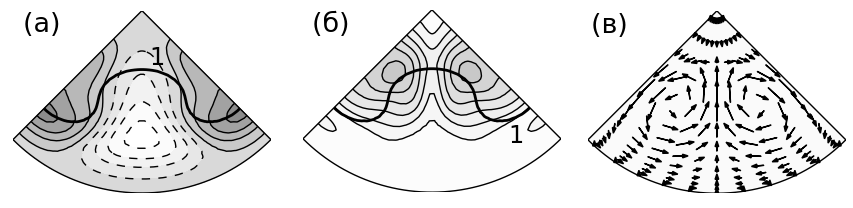
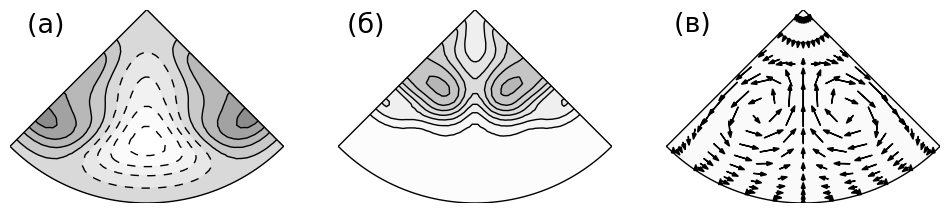
autoref: vortex

diff --git a/autoref/content2.tex b/autoref/content2.tex
@@ -8,7 +8,7 @@
 
 \begin{figure}
 \center{\includegraphics[width=1\linewidth]{bisection.png}}
-\caption{Итерационный процесс построения решения на сепаратрисе.}
+\caption{Итерационный процесс построения решения на сепаратрисе}
 \label{bisection_pic}
 \end{figure}
 
@@ -20,7 +20,7 @@
 
 \begin{figure}
 \center{\includegraphics[width=0.9\linewidth]{edge_3D.png}}
-\caption{Визуализация численного расчета модельного порыва.}
+\caption{Визуализация численного расчета модельного порыва}
 \label{edge_3D_img}
 \end{figure}
 
@@ -28,21 +28,19 @@
 
 На Рисунке \ref{mp_cs_pic}(б) приведено распределение среднеквадратичной амплитуды пульсационной составляющей движения $\v_n$. Пульсации сконцентрированы между соседними полосами повышенной и пониженной скорости, а также между полосой ускорения и осью трубы. Пульсационная составляющая движения $\v_n$ напоминает бегущую вниз по порыву волну. Её фазовая скорость близка к $0.77U$, а длину можно оценить в $5R$. 
 
-\begin{figure}
-\center{\includegraphics[width=1\linewidth]{mp_cs.png}}
-\caption{Поле скорости модельного порыва}
-\label{mp_cs_pic}
-\end{figure}
-
-В \textbf{разделе 2.3} показано, что за образование полос повышенной и пониженной скорости ответственен лифтап (lift-up) эффект, связанный с движением жидкости в перпендикулярной к основному потоку плоскости. 
-Векторное поле поперечной компоненты среднего течения $\V_{3D}$ приведено на Рисунке \ref{mp_cs_pic}(в). В потоке существуют продольные вихри, поддерживающие существование полос. 
-Частицы жидкости, перемещающиеся от стенки в сторону оси трубы, приносят дефект скорости и образуют полосу замедления, а частицы, двигающиеся в противоположном направлении --- от оси к стенке, образуют полосу ускорения.
+В \textbf{разделе 2.3} показано, что за образование полос повышенной и пониженной скорости ответственен лифтап (lift-up) эффект, связанный с движением жидкости в перпендикулярной к основному потоку плоскости. Векторное поле поперечной компоненты среднего течения $\V_{3D}$ приведено на Рисунке \ref{mp_cs_pic}(в). Оно соответствует наличию продольных вихрей, поддерживающих существование полос. Частицы жидкости, перемещающиеся от стенки в сторону оси трубы, приносят дефект скорости и образуют полосу замедления, а частицы, двигающиеся в противоположном направлении --- от оси к стенке, образуют полосу ускорения. Говорить о продольных вихрях позволяет также тот факт, что средняя продольная завихренность $\Omega_x$ оказывается сконцентрирована в небольших областях между соседними полосами повышенной и пониженной скорости. Распределение $\Omega^2_x$ по сечению трубы представлено на Рисунке \ref{OXgen_pic}(a).
 
 В \textbf{разделе 2.4} показано, что пульсации возникают в результате линейной неустойчивости среднего течения. Для этого линеаризованные относительно возмущений уравнения с некоторыми случайными начальными условиями интегрировались по времени до выхода решения на режим экспоненциального изменения. Обнаружено, что $\V$ неустойчиво. Растущее возмущение $\v'_1 \sim e^{(\lambda+i\omega)t}$ имеет инкремент нарастания $\lambda=0.012$ и частоту $\omega=0.116$, близкую к частоте колебаний $2\pi/60=0.105$ в модельном порыве. Поле скорости растущего решения $\v'_1$ достаточно точно повторяет поле скорости пульсационной составляющей движения модельного порыва $\v_n$. 
 
+\begin{figure}
+\center{\includegraphics[width=1\linewidth]{mp_cs.png}}
+\caption{Различные компоненты движения модельного порыва}
+\label{mp_cs_pic}
+\end{figure}
+
 В \textbf{разделе 2.5} рассматривается вопрос влияния продольной неоднородности среднего течения на форму пульсаций. Для этого на устойчивость исследуются однородные вдоль трубы поля скорости $\U_i = \V\big|_{x=x_i}$, повторяющее среднее течение в сечениях $x = x_i$ из области, в которой пульсации имеют существенную амплитуду. Показано, что продольная неоднородность среднего течения не является необходимым условием возникновения пульсаций. 
 
-В \textbf{разделе 2.6} на основе уравнений движения анализируется вклад каждой из компонент движения в производство кинетической энергии других компонент движения. Это позволяет более строго обосновать полученные представления о взаимодействии между различными компонентами движения и показать, что все существенные взаимодействия учтены. %Показано, что продольные вихри поддерживаются пульсациями. 
+В \textbf{разделе 2.6} на основе уравнений движения анализируется вклад каждой из компонент движения в производство кинетической энергии других компонент движения. Это позволяет более строго обосновать полученные представления о взаимодействии между различными компонентами движения и показать, что все существенные взаимодействия учтены.
 
 В \textbf{разделе 2.7} приведены выводы по главе. Основные результаты, приведенные в главе, опубликованы в работах автора диссертации \cite{MZG2015, Kazan2015, KMU2014, KMU2015}.
 

diff --git a/autoref/content3.tex b/autoref/content3.tex
@@ -1,5 +1,11 @@
 \textbf{Глава 3} посвящена механизму поддержания продольных вихрей, сохраняющих угловую неоднородность среднего течения. В \textbf{разделах 3.1 -- 3.3} механизм дается на примере решения, имеющего вид бегущей волны. Это решение периодично вдоль потока и стационарно в сопутствующей системе отсчета. Простота его поведения позволяет в более строгой форме показать ряд особенностей движения, обеспечивающих работу механизма. 
 
+\begin{figure}
+\center{\includegraphics[width=1\linewidth]{autoref_OXgen.png}}
+\caption{Механизм генерации продольных вихрей}
+\label{OXgen_pic}
+\end{figure}
+
 В \textbf{разделе 3.4} проводится обобщение механизма поддержания продольных вихрей на модельный порыв. 
 Прояснить процесс поддержания продольных вихрей позволяет анализ уравнения эволюции средней продольной завихренности
 \begin{multline}\label{OX_eq}
@@ -13,13 +19,7 @@
 \end{equation}
 вносят определяющий вклад в производство средней продольной завихренности. 
 
-Для представления количественных данных обратимся к уравнения эволюции квадрата $\Omega_x$, полученному умножением \eqref{OX_eq} на $2\Omega_x$. Положительный или отрицательный знак у выражений в правой части этого уравнения показывает соответственно положительный или отрицательный вклад этого члена в изменение $\Omega^2_x$, а следовательно, и в интенсивность поперечного движения. Распределение $\Omega^2_x$ по сечению трубы представлено на Рисунке \ref{OXgen_pic}(a). Область концентрации $\Omega_x$ расположена между полосами повышенной и пониженной скорости и соответствюут расположению продольных вихрей на Рисунке \ref{mp_cs_pic}(в). Соответствующее сумме \eqref{OXgen_terms} распределение в уравнении для $\Omega^2_x$ представлено на Рисунке \ref{OXgen_pic}(б), а вклад остальных слагаемых правой части \eqref{OX_eq} показан на Рисунке \ref{OXgen_pic}(в). Распределение генерации $\Omega^2_x$ выделенными в \eqref{OXgen_terms} членами практически совпадает по форме с распределением $\Omega^2_x$, тогда как вклад остальных членов не имеет выраженного распределения и более чем на порядок уступает по суммарному вкладу в генерацию $\Omega^2_x$. Таким образом, нет сомнения в том, что стационарные продольные вихри возникают за счет действия слагаемых \eqref{OXgen_terms}.
-
-\begin{figure}
-\center{\includegraphics[width=1\linewidth]{autoref_OXgen.png}}
-\caption{Механизм генерации продольных вихрей}
-\label{OXgen_pic}
-\end{figure}
+Для представления количественных данных обратимся к уравнения эволюции квадрата $\Omega_x$, полученному умножением \eqref{OX_eq} на $2\Omega_x$. Положительный или отрицательный знак у выражений в правой части этого уравнения показывает соответственно положительный или отрицательный вклад этого члена в изменение $\Omega^2_x$, а следовательно, и в интенсивность поперечного движения. Соответствующее сумме \eqref{OXgen_terms} распределение в уравнении для $\Omega^2_x$ представлено на Рисунке \ref{OXgen_pic}(б), а вклад остальных слагаемых правой части \eqref{OX_eq} показан на Рисунке \ref{OXgen_pic}(в). Распределение генерации $\Omega^2_x$ выделенными в \eqref{OXgen_terms} членами практически совпадает по форме с распределением $\Omega^2_x$, приведенным на Рисунке \ref{OXgen_pic}(а), тогда как вклад остальных членов не имеет выраженного распределения и более чем на порядок уступает по суммарному вкладу в генерацию $\Omega^2_x$. Таким образом, нет сомнения в том, что стационарные продольные вихри возникают за счет действия слагаемых \eqref{OXgen_terms}.
 
 Между собой слагаемые \eqref{OXgen_terms} практически равны. Это значит, в частности, что колебания $\partial v'_x / \partial x$ и $\omega'_x$ положительно коррелированы в области концентрации положительной $\Omega_x$ и отрицательно коррелированы в области концентрации отрицательной $\Omega_x$. То же относится и к колебаниям $-v'_x$ и $\partial \omega'_x / \partial x$. Выявить механизм формирования такой связи позволяет анализ уравнения эволюции $\omega'_x$:
 \begin{multline}\label{ox1_eq}

diff --git a/autoref/conclusion.tex b/autoref/conclusion.tex
@@ -2,6 +2,13 @@
 \section*{\centering Основные результаты и выводы}
 \addcontentsline{toc}{chapter}{Основные результаты и выводы}
 
+
+\begin{figure}
+\center{\includegraphics[width=1\linewidth]{ub_cs.png}}
+\caption{Поле скорости решения с верхней ветви}
+\label{ub_cs_pic}
+\end{figure}
+
 \noindent $1.$ Рассчитан и исследован модельный порыв --- условно-периодическое решение уравнений Навье-Стокса с пространственно-локализованной структурой, являющееся предельным состоянием решения, эволюционирующего на сепаратрисе, разделяющей в фазовом пространстве области притяжения решений, соответствующих ламинарному и турбулентному режимам течения. Это решение воспроизводит характерные особенности турбулентного порыва, но имеет более простое временное поведение, что позволяет выполнить его детальное исследование. Определены основные элементы механизма поддержания колебаний в модельном порыве. Его поле скорости представляется в виде суперпозиции средней и пульсационной составляющих. Характерной особенностью среднего течения является наличие вытянутых вдоль потока полос повышенной и пониженной скорости. Пульсации возникают в результате линейной неустойчивости среднего течения в областях между соседними полосами. В этих областях находятся точки перегиба, если рассматривать среднее течение как функцию угловой переменной, что позволяет связать механизм образования колебаний с неустойчивостью струйного течения с токами перегиба. Продольная неоднородность среднего течения не является необходимым условием возникновения пульсаций. Угловую неоднородность среднего течения поддерживают продольные вихри, перемещающие жидкость в нормальной к основному потоку плоскости. Продольные вихри, в свою очередь, формируются в результате нелинейного взаимодействия пульсаций. Таким образом, можно говорить о цикле поддержания колебаний. 
 
 \noindent $2.$ Обнаружен нелинейный механизм поддержания продольных вихрей, вызывающих полосчатое искажение в распределении продольной скорости. Существование продольных вихрей поддерживается нелинейным взаимодействием пульсаций продольной скорости и пульсаций продольной завихренности. Пульсации продольной завихренности образуются за счет сжатия и растяжения существующих в среднем течении вихревых трубок пульсациями продольной скорости, что обеспечивает необходимую для поддержания продольных вихрей согласованность фаз между этими пульсациями. 

diff --git a/autoref/content4.tex b/autoref/content4.tex
@@ -26,11 +26,6 @@
 \label{3D_ub_pic}
 \end{figure} 
 
-\begin{figure}
-\center{\includegraphics[width=1\linewidth]{ub_cs.png}}
-\caption{Поле скорости решения с верхней ветви}
-\label{ub_cs_pic}
-\end{figure}
 
 \textbf{Разделы 4.4} и \textbf{4.5} посвящены анализу трехмерных бегущих волн в течении Гагена-Пуазейля и в плоском течении Пуазейля. Постановка задачи для плоского течения Пуазейля аналогична постановке для течения Гагена-Пуазейля. В каждом течении вид бегущей волны имеют предельные решения на сепаратрисе, найденные в непротяженной расчетной области. Также в плоском течении Пуазейля найдена устойчивая бегущая волна (при наложенных условиях симметрии). Методом продолжения по параметру рассчитаны соответствующие семейства решений. В отличии от модельного порыва, среднее поле скорости бегущей волны не зависит от продольной координаты --- полосы и продольные вихри имеют бесконечную протяженность. Решения достаточно существенно отличаются друг от друга, но, несмотря на это, механизм поддержания колебаний во всех трех семействах решений также аналогичен механизму поддержания колебаний в модельном порыве. 
 %Отметим, что в некоторых решениях среднее поле скорости устойчиво к малым возмущениям, но и в этих случаях механизм передачи энергии в пульсационную составляющую движения, по-видимому, линейный, так как наиболее медленно затухающая собственная функция линейной задачи устойчивости повторяет форму и фазовую скорость пульсационной составляющей движения. Также в некоторых решениях слагаемое \eqref{ox1gen_main_terms} оказывается не единственным ответственным за производство $\omega'_x$ в области формирования продольных вихрей, но это слагаемое всегда имеет существенное значение и именно оно обеспечивает необходимую для поддержания продольных вихрей согласованность фаз между пульсациями $\omega'_x$ и $v'_x$. 

diff --git a/autoref/content1.tex b/autoref/content1.tex
@@ -17,6 +17,6 @@
 
 \begin{figure}
 \center{\includegraphics[width=0.9\linewidth]{puff_3D.png}}
-\caption{Визуализация численного расчета турбулентного порыва.}
+\caption{Визуализация численного расчета турбулентного порыва}
 \label{puff_3D_img}
 \end{figure}
